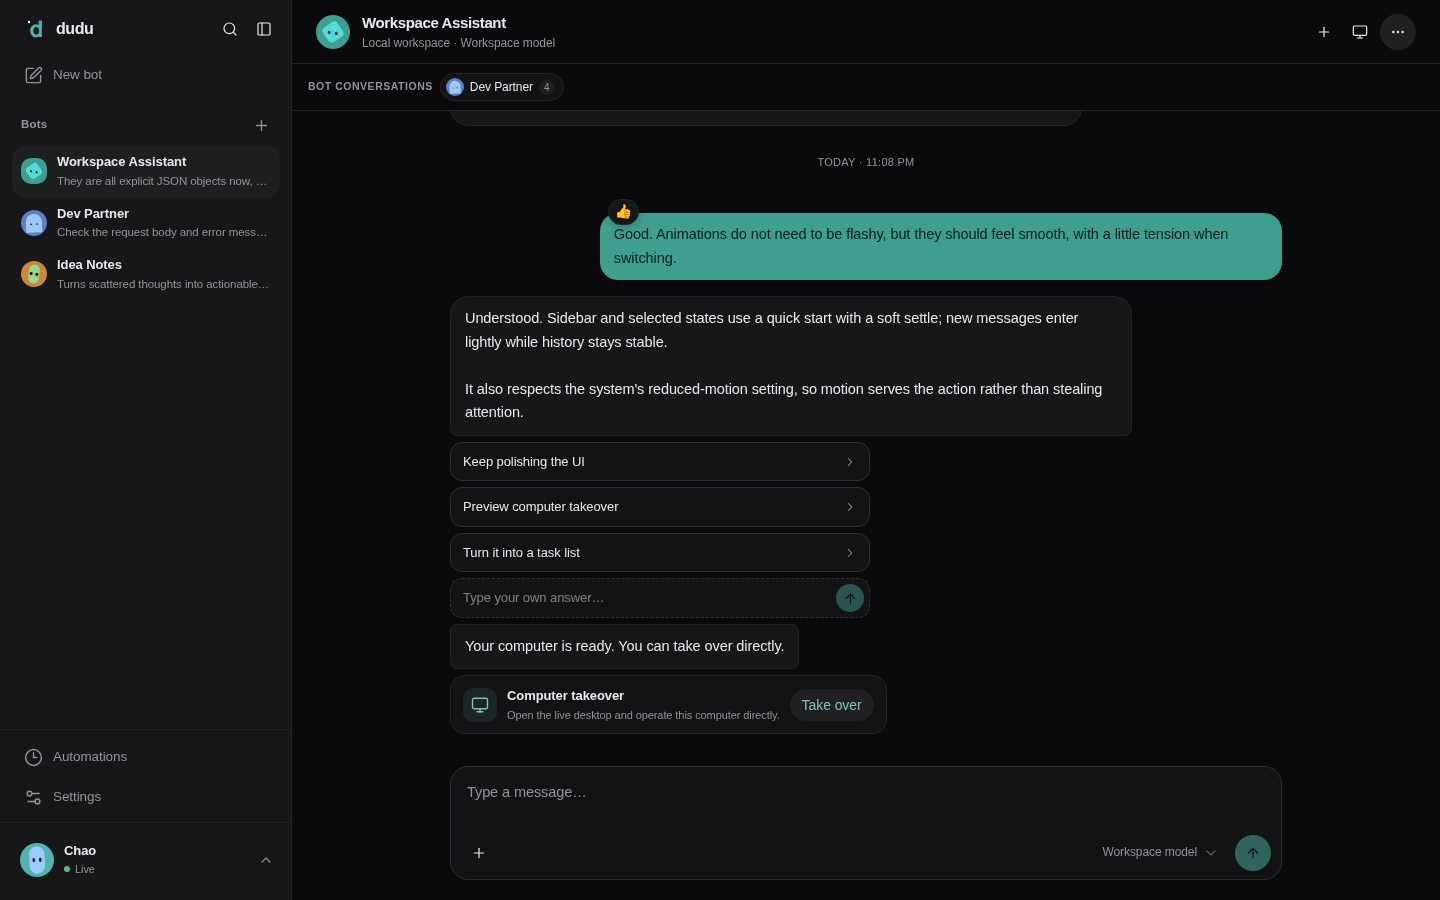
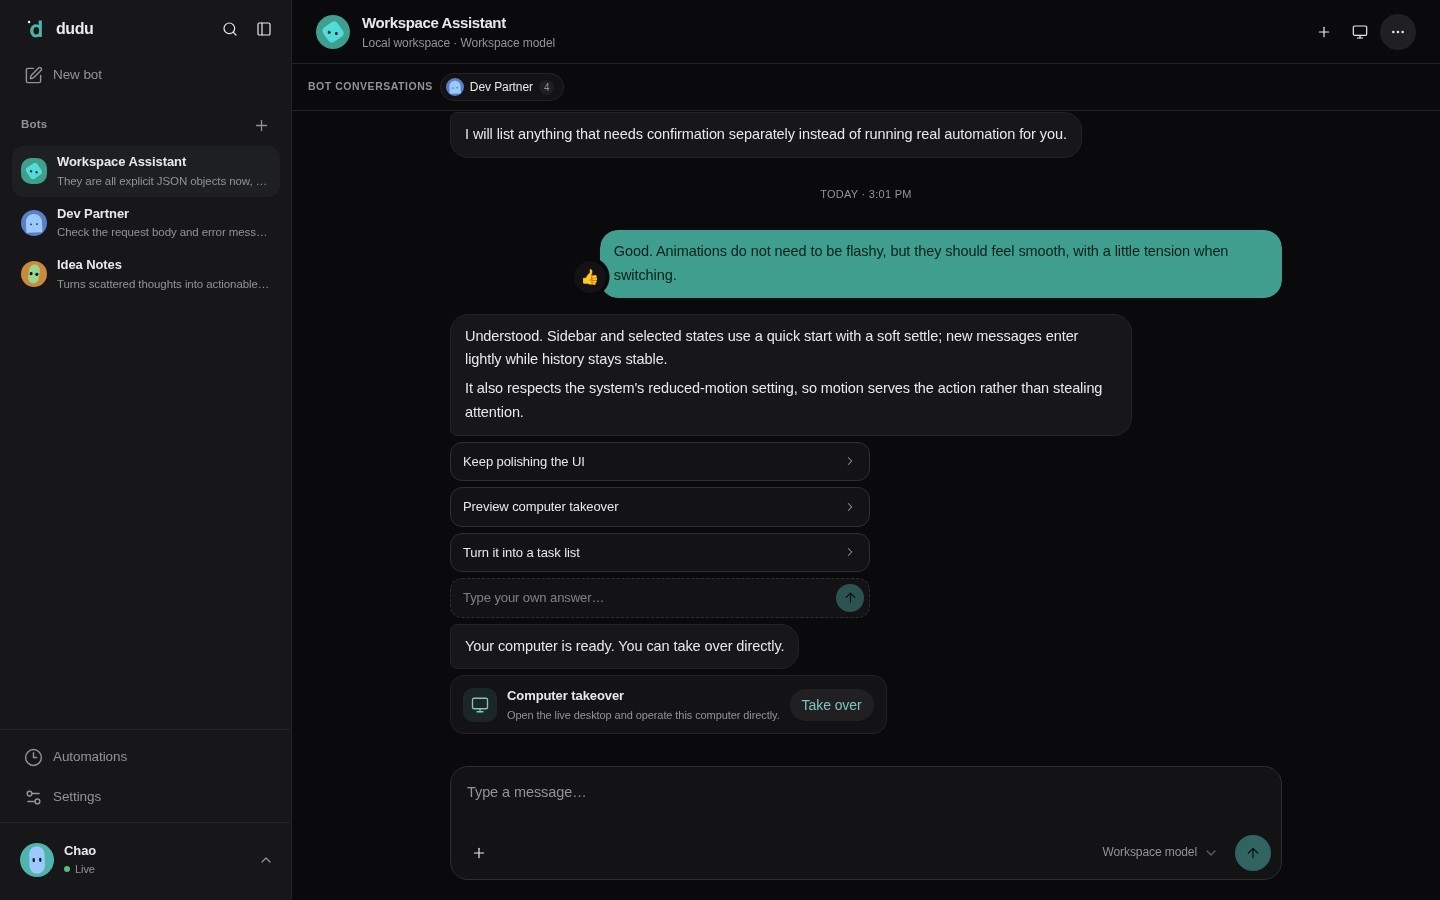
fix(web): tighten only the seam corners of grouped bubbles
Consecutive messages used to shrink both corners of the shared edge.
Keep the opposite side fully rounded and tighten only the corner facing
the next message on the side the messages are aligned to: right for user
bubbles, left for bot bubbles. Single bubbles stay fully rounded.

Regenerate the README screenshots with `bun run screenshots`.

Changed region(s): [[0.3125, 0.2178, 0.9062, 0.4356], [0.3125, 0.1244, 0.75, 0.1867], [0.7188, 0.4044, 0.75, 0.4356]]

diff --git a/src/web/styles.css b/src/web/styles.css
@@ -903,7 +903,7 @@ body {
 
 .chat-bubble {
   max-width: 100%;
-  border-radius: 7px;
+  border-radius: 18px;
   padding: 10px 14px;
 }
 
@@ -917,15 +917,15 @@ body {
   box-shadow: 0 1px 2px rgb(0 0 0 / 0.06);
 }
 
-.chat-bubble.group-start {
-  border-top-left-radius: 18px;
-  border-top-right-radius: 18px;
-}
+/* Consecutive bubbles round the outside fully and only tighten the corner
+   that faces the next bubble on the side the messages are aligned to. */
+.chat-bubble-user.group-start:not(.group-end) { border-bottom-right-radius: 7px; }
+.chat-bubble-user:not(.group-start):not(.group-end) { border-top-right-radius: 7px; border-bottom-right-radius: 7px; }
+.chat-bubble-user.group-end:not(.group-start) { border-top-right-radius: 7px; }
 
-.chat-bubble.group-end {
-  border-bottom-left-radius: 18px;
-  border-bottom-right-radius: 18px;
-}
+.chat-bubble-assistant.group-start:not(.group-end) { border-bottom-left-radius: 7px; }
+.chat-bubble-assistant:not(.group-start):not(.group-end) { border-top-left-radius: 7px; border-bottom-left-radius: 7px; }
+.chat-bubble-assistant.group-end:not(.group-start) { border-top-left-radius: 7px; }
 
 .chat-bubble-wrap {
   position: relative;
